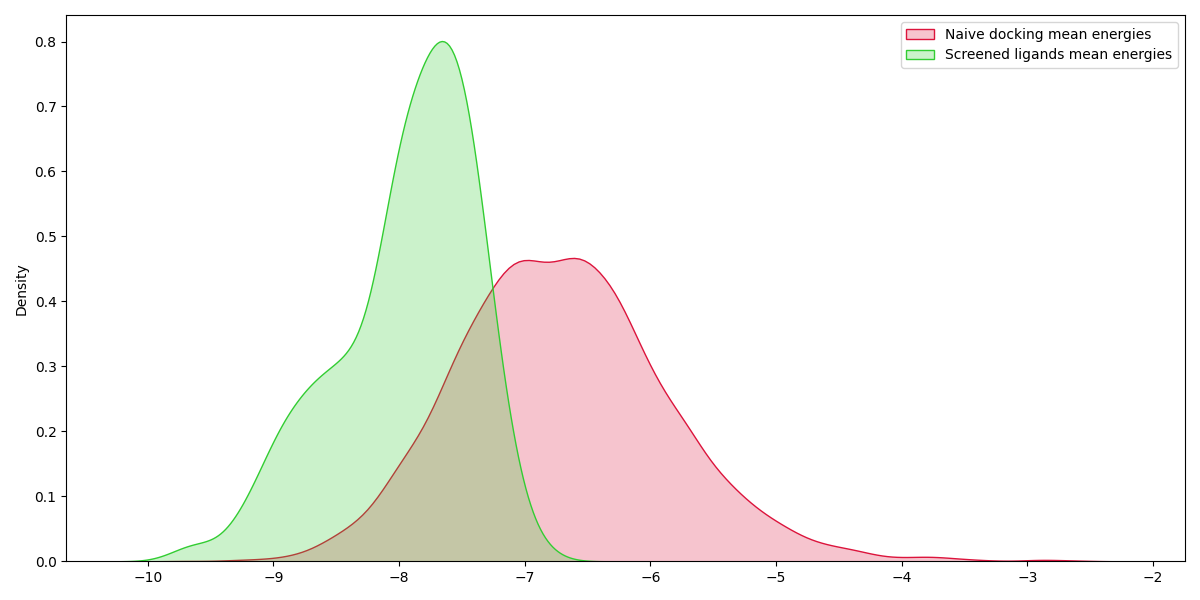
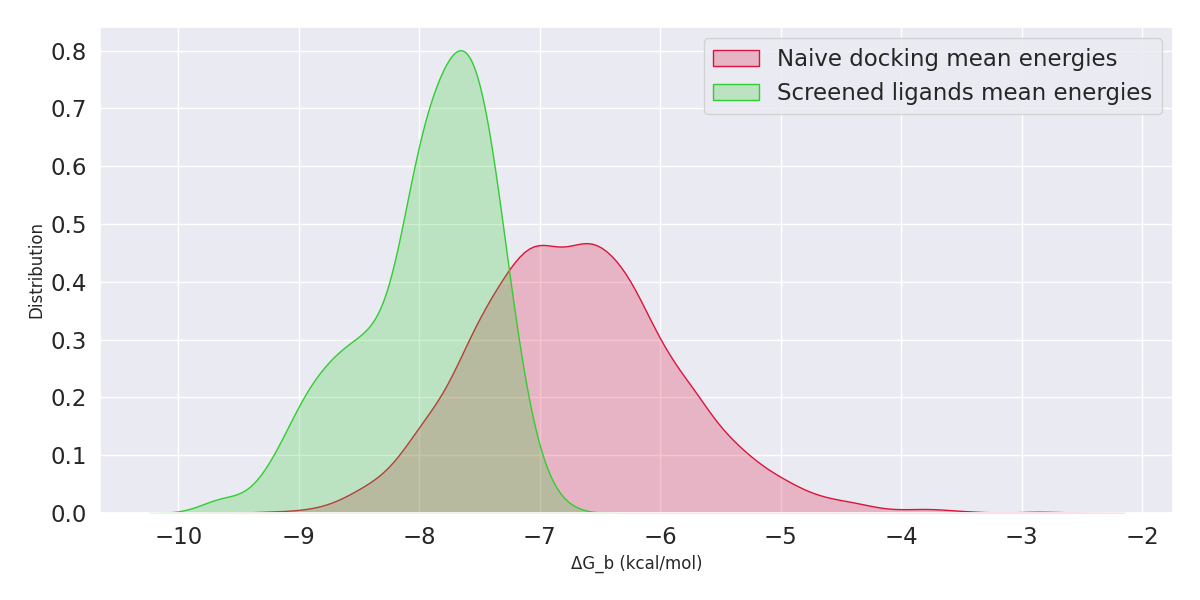
first

diff --git a/kd_plots.py b/kd_plots.py
@@ -36,12 +36,19 @@ for index, row in df_screened.iterrows():
     mean = values.mean()
     screened_means.append(mean)
 
+
+sns.set(font_scale=1.5)
+
 fig, ax = plt.subplots(figsize=(12, 6))
 sns.kdeplot(data=naive_means,
             color='crimson', label='Naive docking mean energies', fill=True, ax=ax)
 sns.kdeplot(data=screened_means,
             color='limegreen', label='Screened ligands mean energies', fill=True, ax=ax)
 ax.legend()
+
+
+plt.xlabel('ΔG_b (kcal/mol)', fontsize=12)
+plt.ylabel('Distribution', fontsize=12)
 
 plt.tight_layout()
 plt.savefig('./kd_plots.png')

diff --git a/check_results.py b/check_results.py
@@ -107,11 +107,15 @@ import matplotlib.pyplot as plt
 
 plt.bar(list(naive.keys()), naive.values(), color='g')
 
+plt.xlabel("Binding sites interaction")
+plt.ylabel("Number of molecules")
+
 plt.savefig('./naive.png')
 
 plt.clf()
 
 plt.bar(list(screened.keys()), screened.values(), color='g')
-
+plt.xlabel("Binding sites interaction")
+plt.ylabel("Number of molecules")
 
 plt.savefig('./screened.png')
